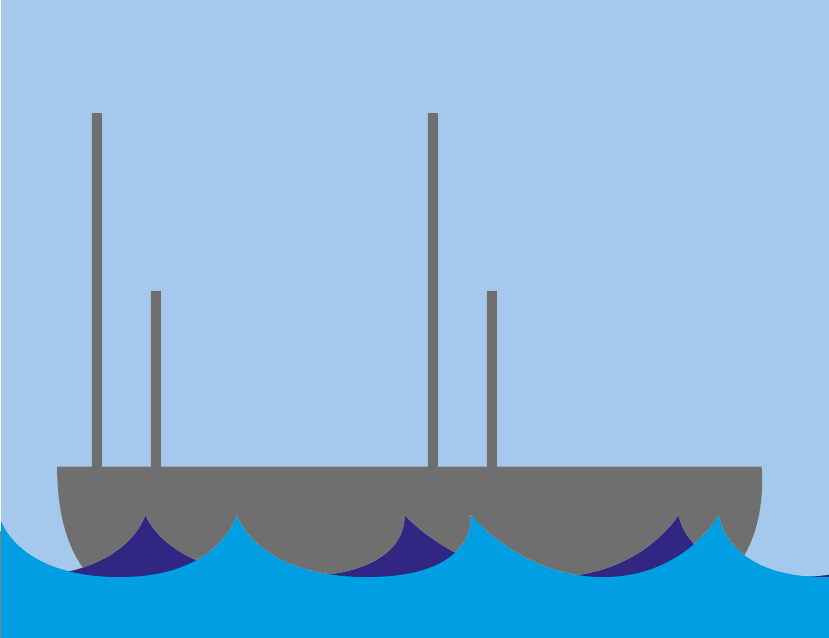
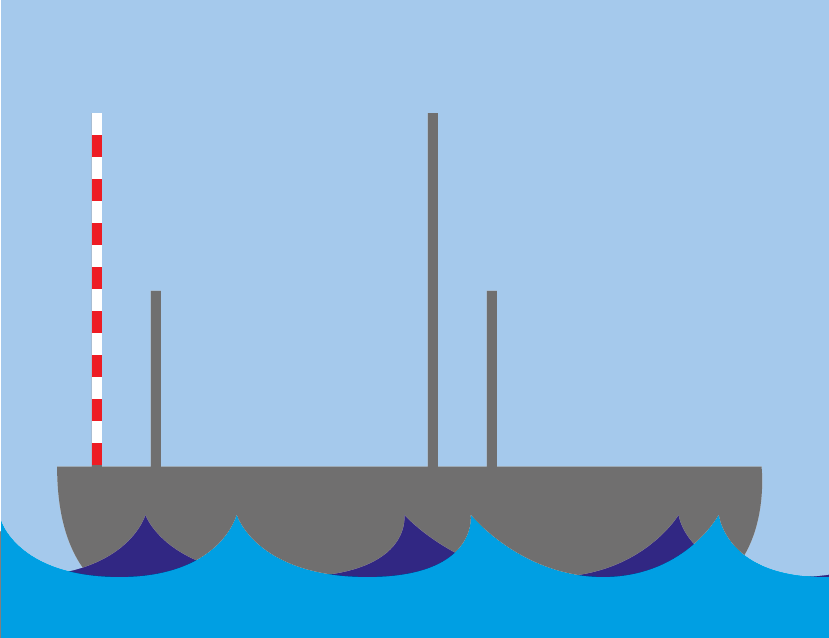
orange flaggen begonnen
+ peilstange geändert

Changed region(s): [[0.0905, 0.1787, 0.1206, 0.7445]]

diff --git a/app/App.js b/app/App.js
@@ -107,7 +107,6 @@ export default class App extends React.Component {
 			{choice: undefined,button: 'Schwimmwesten anlegen (Aufruf)', description: 'Setzen der Flagge "Y"'},
 
 		];
-
 	}
 
 	componentWillMount() {
@@ -137,14 +136,14 @@ export default class App extends React.Component {
 
 		args.forEach(start => {
 
-			starttime = moment(start.time).subtract(6, 'minutes');
+			starttime = moment(start.time).subtract(10, 'minutes');
 			//starttime = moment(start.time).subtract(2, 'minutes');
 
 			//1ste aktion
 			if (start.badstart) {
 				ac.push(
 					new actState(
-						[res.flags.fhs, {}, {}, {}],
+						[res.flags.orange,res.flags.fhs, {}, {}],
 						[
 							{
 								name: 'TestAction2',
@@ -161,12 +160,12 @@ export default class App extends React.Component {
 				ac.push(
 					//flagge l setzen und 6 min vor Start bergen
 					new actState(
-						[res.flags.l, {}, {}, {}],
+						[{},{}, {}, {}],
 						[
 							{
 								name: 'TestAction2',
-								actionPic: res.actions.flag_down,
-								flagPic: res.flags.l,
+								actionPic: res.actions.flag_up,
+								flagPic: res.flags.orange,
 							},
 						],
 						starttime,
@@ -180,7 +179,7 @@ export default class App extends React.Component {
 			//l ist geborgen und in einer minute ankündigungssignal + Klassenflagge
 			ac.push(
 				new actState(
-					[{}, {}, {}, {}],
+					[res.flags.orange, {}, {}, {}],
 					[
 						{
 							name: 'TestAction1',
@@ -206,7 +205,7 @@ export default class App extends React.Component {
 				//Klassenflagge gesetzt
 				//in einer minute Vorbereitungssignal und Startmethode
 				new actState(
-					[res.flags.klass, {}, {}, {}],
+					[res.flags.orange, res.flags.klass, {}, {}],
 					[
 						{
 							name: 'TestAction1',
@@ -232,7 +231,7 @@ export default class App extends React.Component {
 				//Condition Flagge gesetzt
 				//3 minuten bis zum 1 min signal
 				new actState(
-					[res.flags.klass, res.flags[start.condition], {}, {}],
+				 [res.flags.orange, res.flags.klass, res.flags[start.condition], {}],
 					[
 						{
 							name: 'TestAction1',
@@ -257,7 +256,7 @@ export default class App extends React.Component {
 				//1 minuten signal geschossen, condition flagge geborgen
 				//1 minute bis start
 				new actState(
-					[res.flags.klass, {}, {}, {}],
+					[res.flags.orange, res.flags.klass, {}, {}],
 					[
 						{
 							name: 'TestAction1',
@@ -281,7 +280,7 @@ export default class App extends React.Component {
 			//kein button press keine nächsten aktionen
 			ac.push(
 				new actState(
-					[{}, {}, {}, {}],
+					[res.flags.orange, {}, {}, {}],
 					[],
 					moment(starttime)
 						.add(6, 'm')
@@ -294,7 +293,7 @@ export default class App extends React.Component {
 
 			ac.push(
 				new actState(
-					[{}, {}, {}, {}],
+					[res.flags.orange, {}, {}, {}],
 					[],
 					moment(starttime)
 						.add(6, 'm')
@@ -331,7 +330,7 @@ export default class App extends React.Component {
 
 			bsacts.push(
 				new actState(
-					[res.flags.x, {}, {}, {}],
+					[res.flags.orange, res.flags.x,  {}, {}],
 					[],
 					//TODO genaue Zeit herausfinden WICHTIG NICHT IGNORIEREN
 					moment().add(4, 'm'),
@@ -429,7 +428,7 @@ export default class App extends React.Component {
 
 		postActs.push(
 			new actState(
-				[res.flags.ap, {}, {}, {}],
+				[res.flags.orange,res.flags.ap, {}, {}],
 				[],
 				moment().add(5,'s'),
 				false
@@ -449,7 +448,7 @@ export default class App extends React.Component {
 
 		postActs.push(
 			new actState(
-				[res.flags.apoh, {}, {}, {}],
+				[res.flags.orange, res.flags.apoh, {}, {}],
 				[],
 				moment().add(5,'s'),
 				false
@@ -469,7 +468,7 @@ export default class App extends React.Component {
 
 		postActs.push(
 			new actState(
-				[res.flags.apoa, {}, {}, {}],
+				[res.flags.orange, res.flags.apoa, {}, {}],
 				[],
 				moment().add(5,'s'),
 				false
@@ -488,7 +487,7 @@ export default class App extends React.Component {
 
 		cancelActs.push(
 			new actState(
-				[res.flags.n, {}, {}, {}],
+				[res.flags.orange, res.flags.n, {}, {}],
 				[],
 				moment().add(5,'s'),
 				false
@@ -508,7 +507,7 @@ export default class App extends React.Component {
 
 		cancelActs.push(
 			new actState(
-				[res.flags.noh, {}, {}, {}],
+				[res.flags.orange, res.flags.noh, {}, {}],
 				[],
 				moment().add(5,'s'),
 				false
@@ -528,7 +527,7 @@ export default class App extends React.Component {
 
 		cancelActs.push(
 			new actState(
-				[res.flags.noa, {}, {}, {}],
+				[res.flags.orange, res.flags.noa, {}, {}],
 				[],
 				moment().add(5,'s'),
 				false

diff --git a/app/res/res.js b/app/res/res.js
@@ -81,6 +81,11 @@ export const flags = {
 		pic: require('./pics/flags/noh.png'),
 		ratio: 1,
 	},
+	orange: {
+		name: 'orange',
+		pic: require('./pics/flags/orange.png'),
+		ratio: 1,
+	},
 };
 
 export const actions = {
